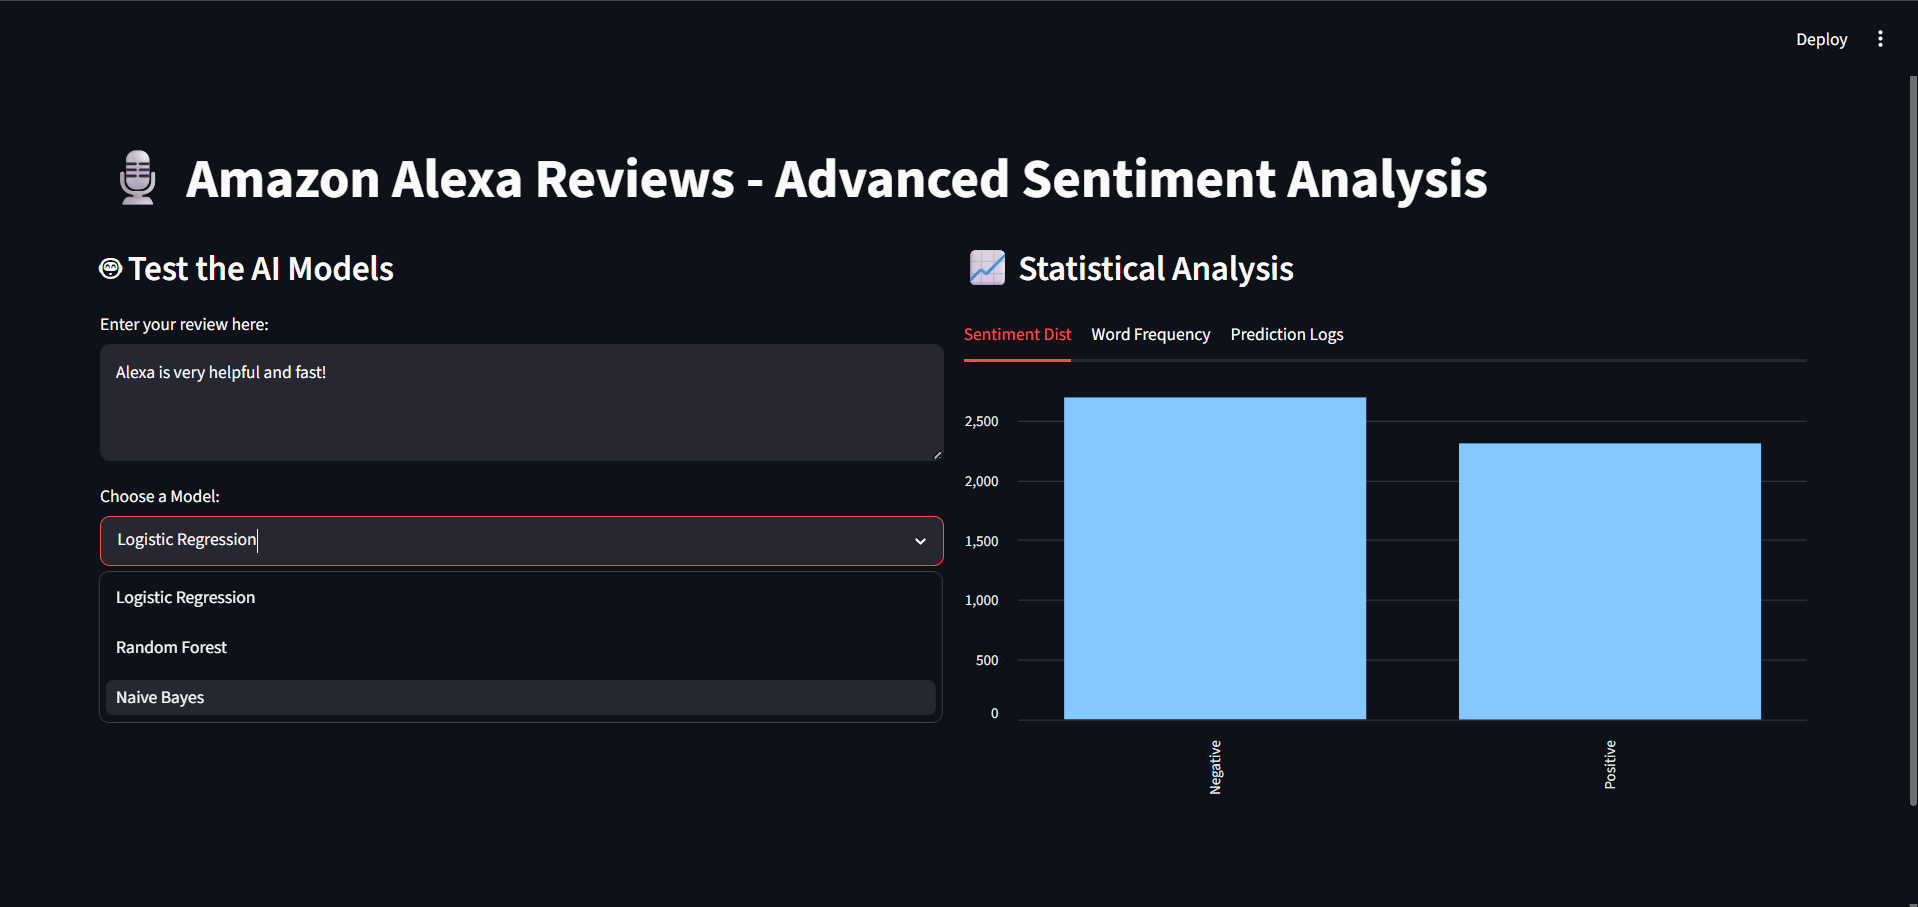
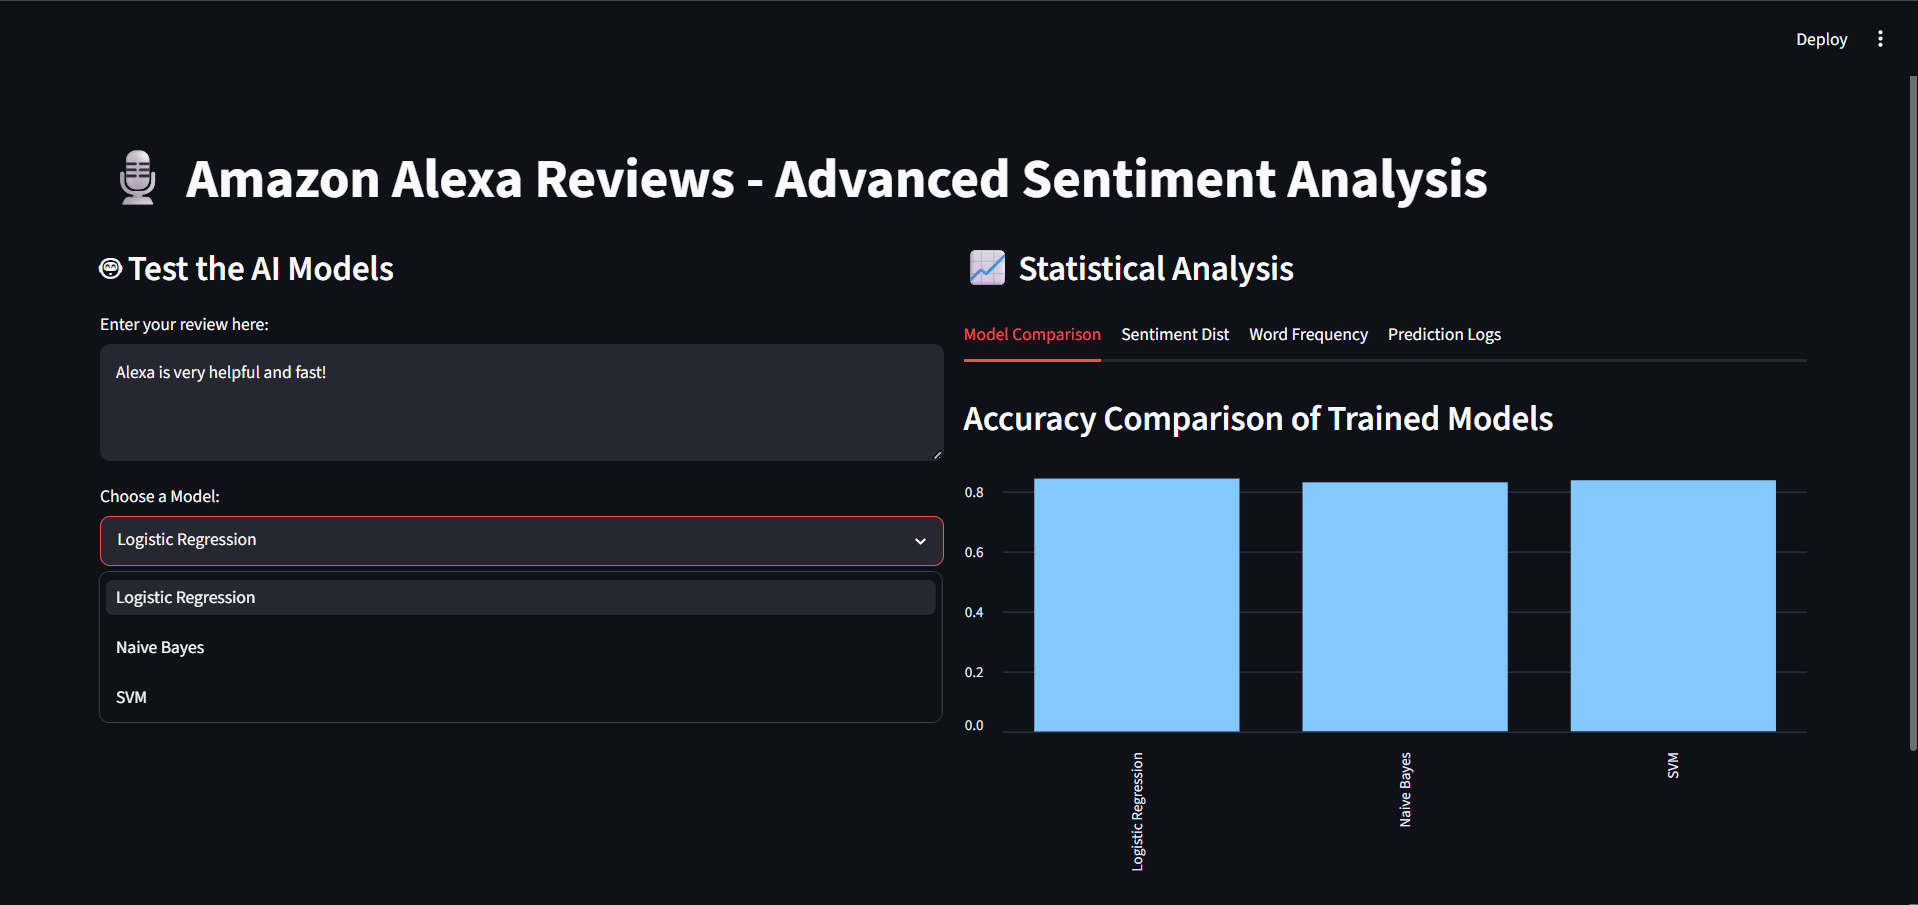
docs: sync exact screenshot filenames with README descriptions

diff --git a/README.md b/README.md
@@ -29,8 +29,8 @@ Models were evaluated using Accuracy, Precision, Recall, F1-Score, and Confusion
 
 ## 7. Dashboard Screenshots (Gösterge Paneli Ekran Görüntüleri)
 
-### 1. Main Interface & SVM Prediction (Ana Arayüz ve SVM Tahmini)
-![Main Interface](dashboard1.png)
+### 1. Main Interface, SVM Prediction & Model Comparison (Ana Arayüz, SVM Tahmini ve Model Karşılaştırma)
+![Main Interface and Model Comparison](dashboard1.png)
 
 ### 2. Word Frequency Analysis (Kelime Frekans Analizi)
 ![Word Frequency](dashboard2.png)
@@ -38,8 +38,5 @@ Models were evaluated using Accuracy, Precision, Recall, F1-Score, and Confusion
 ### 3. Real-Time SQL Prediction Logs (Gerçek Zamanlı Veritabanı Kayıtları)
 ![Prediction Logs](dashboard3.png)
 
-### 4. Multiple Machine Learning Models (Çoklu Makine Öğrenmesi Modelleri)
+### 4. Multiple Machine Learning Models (Çoklu Makine Öğrenmesi Modelleri Seçimi)
 ![Model Selection](dashboard4.png)
-
-### 5. Sentiment Distribution Overview (Duygu Dağılımı ve Sistem Genel Görünümü)
-![Sentiment Distribution](dashboard5.png)